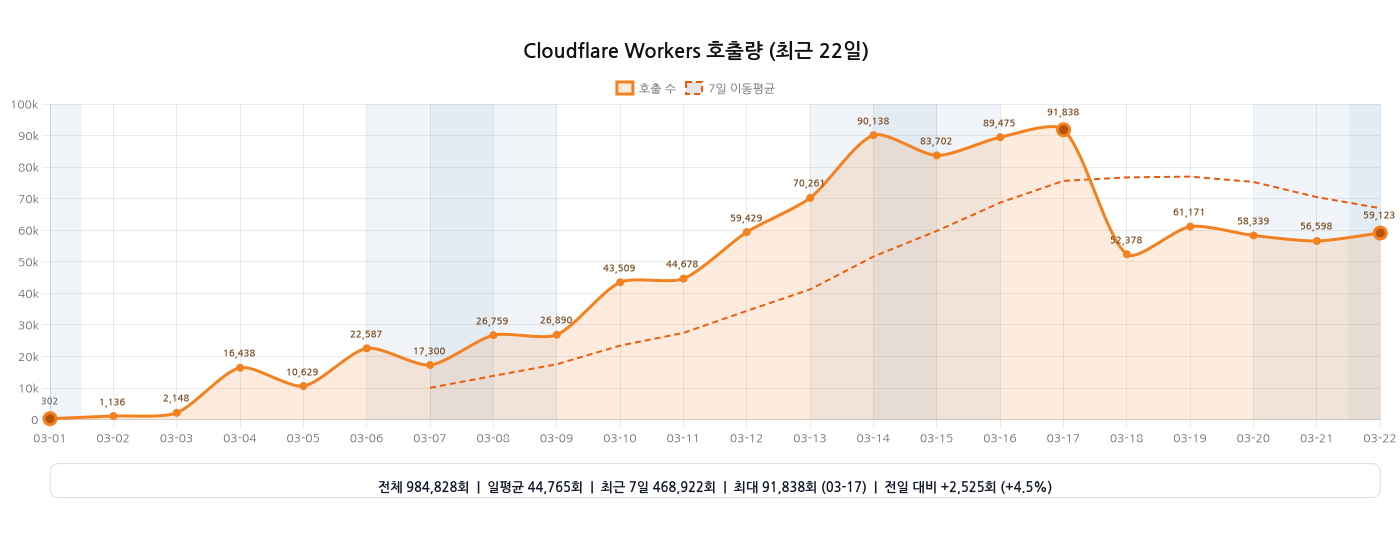
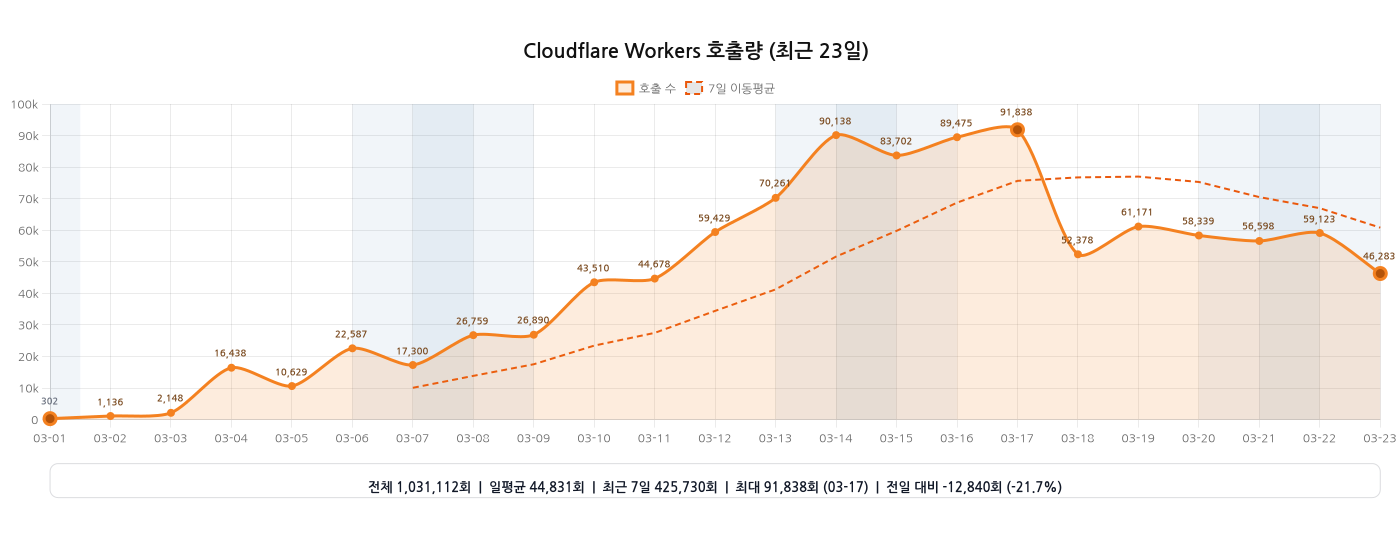
chore: 워커 호출량 그래프 자동 갱신

diff --git a/README.md b/README.md
@@ -18,11 +18,11 @@
 [![Coverage](https://github.com/hmmhmmhm/daiso-mcp/actions/workflows/coverage.yml/badge.svg?branch=main)](https://github.com/hmmhmmhm/daiso-mcp/actions/workflows/coverage.yml)
 
 <!-- WORKERS_INVOCATIONS_CHART:START -->
-<h3>Cloudflare Workers 호출량 (2026-03-01 ~ 2026-03-22, 22일)</h3>
+<h3>Cloudflare Workers 호출량 (2026-03-01 ~ 2026-03-23, 23일)</h3>
 
-<img src="./assets/analytics/workers-invocations.png?v=2026-03-22T15:31:21.473Z" alt="Cloudflare Workers 호출량 그래프 (2026-03-01 ~ 2026-03-22)" width="100%">
+<img src="./assets/analytics/workers-invocations.png?v=2026-03-23T15:42:03.367Z" alt="Cloudflare Workers 호출량 그래프 (2026-03-01 ~ 2026-03-23)" width="100%">
 
-<sub>기준 워커: <code>daiso-mcp</code> · 마지막 갱신: 2026-03-23 00:31 KST</sub>
+<sub>기준 워커: <code>daiso-mcp</code> · 마지막 갱신: 2026-03-24 00:42 KST</sub>
 
 <!-- WORKERS_INVOCATIONS_CHART:END -->
 
